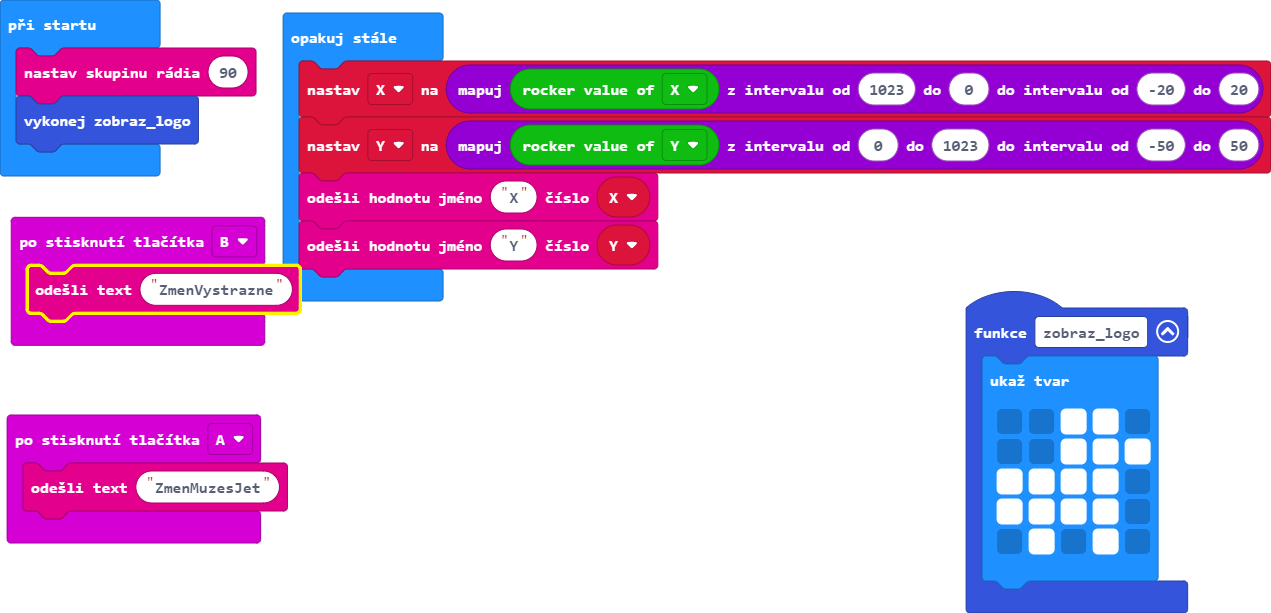
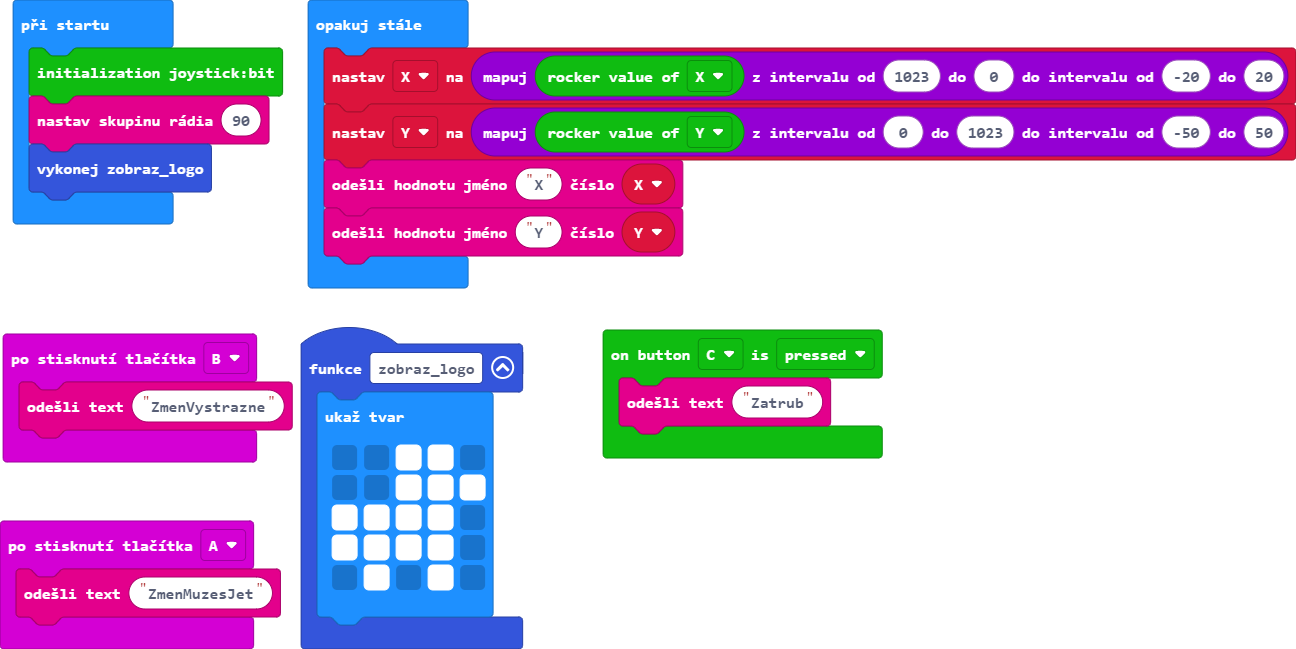
Aktualizovat main.blocks, main.ts

diff --git a/main.ts b/main.ts
@@ -13,8 +13,12 @@ function zobraz_logo () {
 input.onButtonPressed(Button.B, function () {
     radio.sendString("ZmenVystrazne")
 })
+joystickbit.onButtonEvent(joystickbit.JoystickBitPin.P12, joystickbit.ButtonType.down, function () {
+    radio.sendString("Zatrub")
+})
 let Y = 0
 let X = 0
+joystickbit.initJoystickBit()
 radio.setGroup(90)
 zobraz_logo()
 basic.forever(function () {
